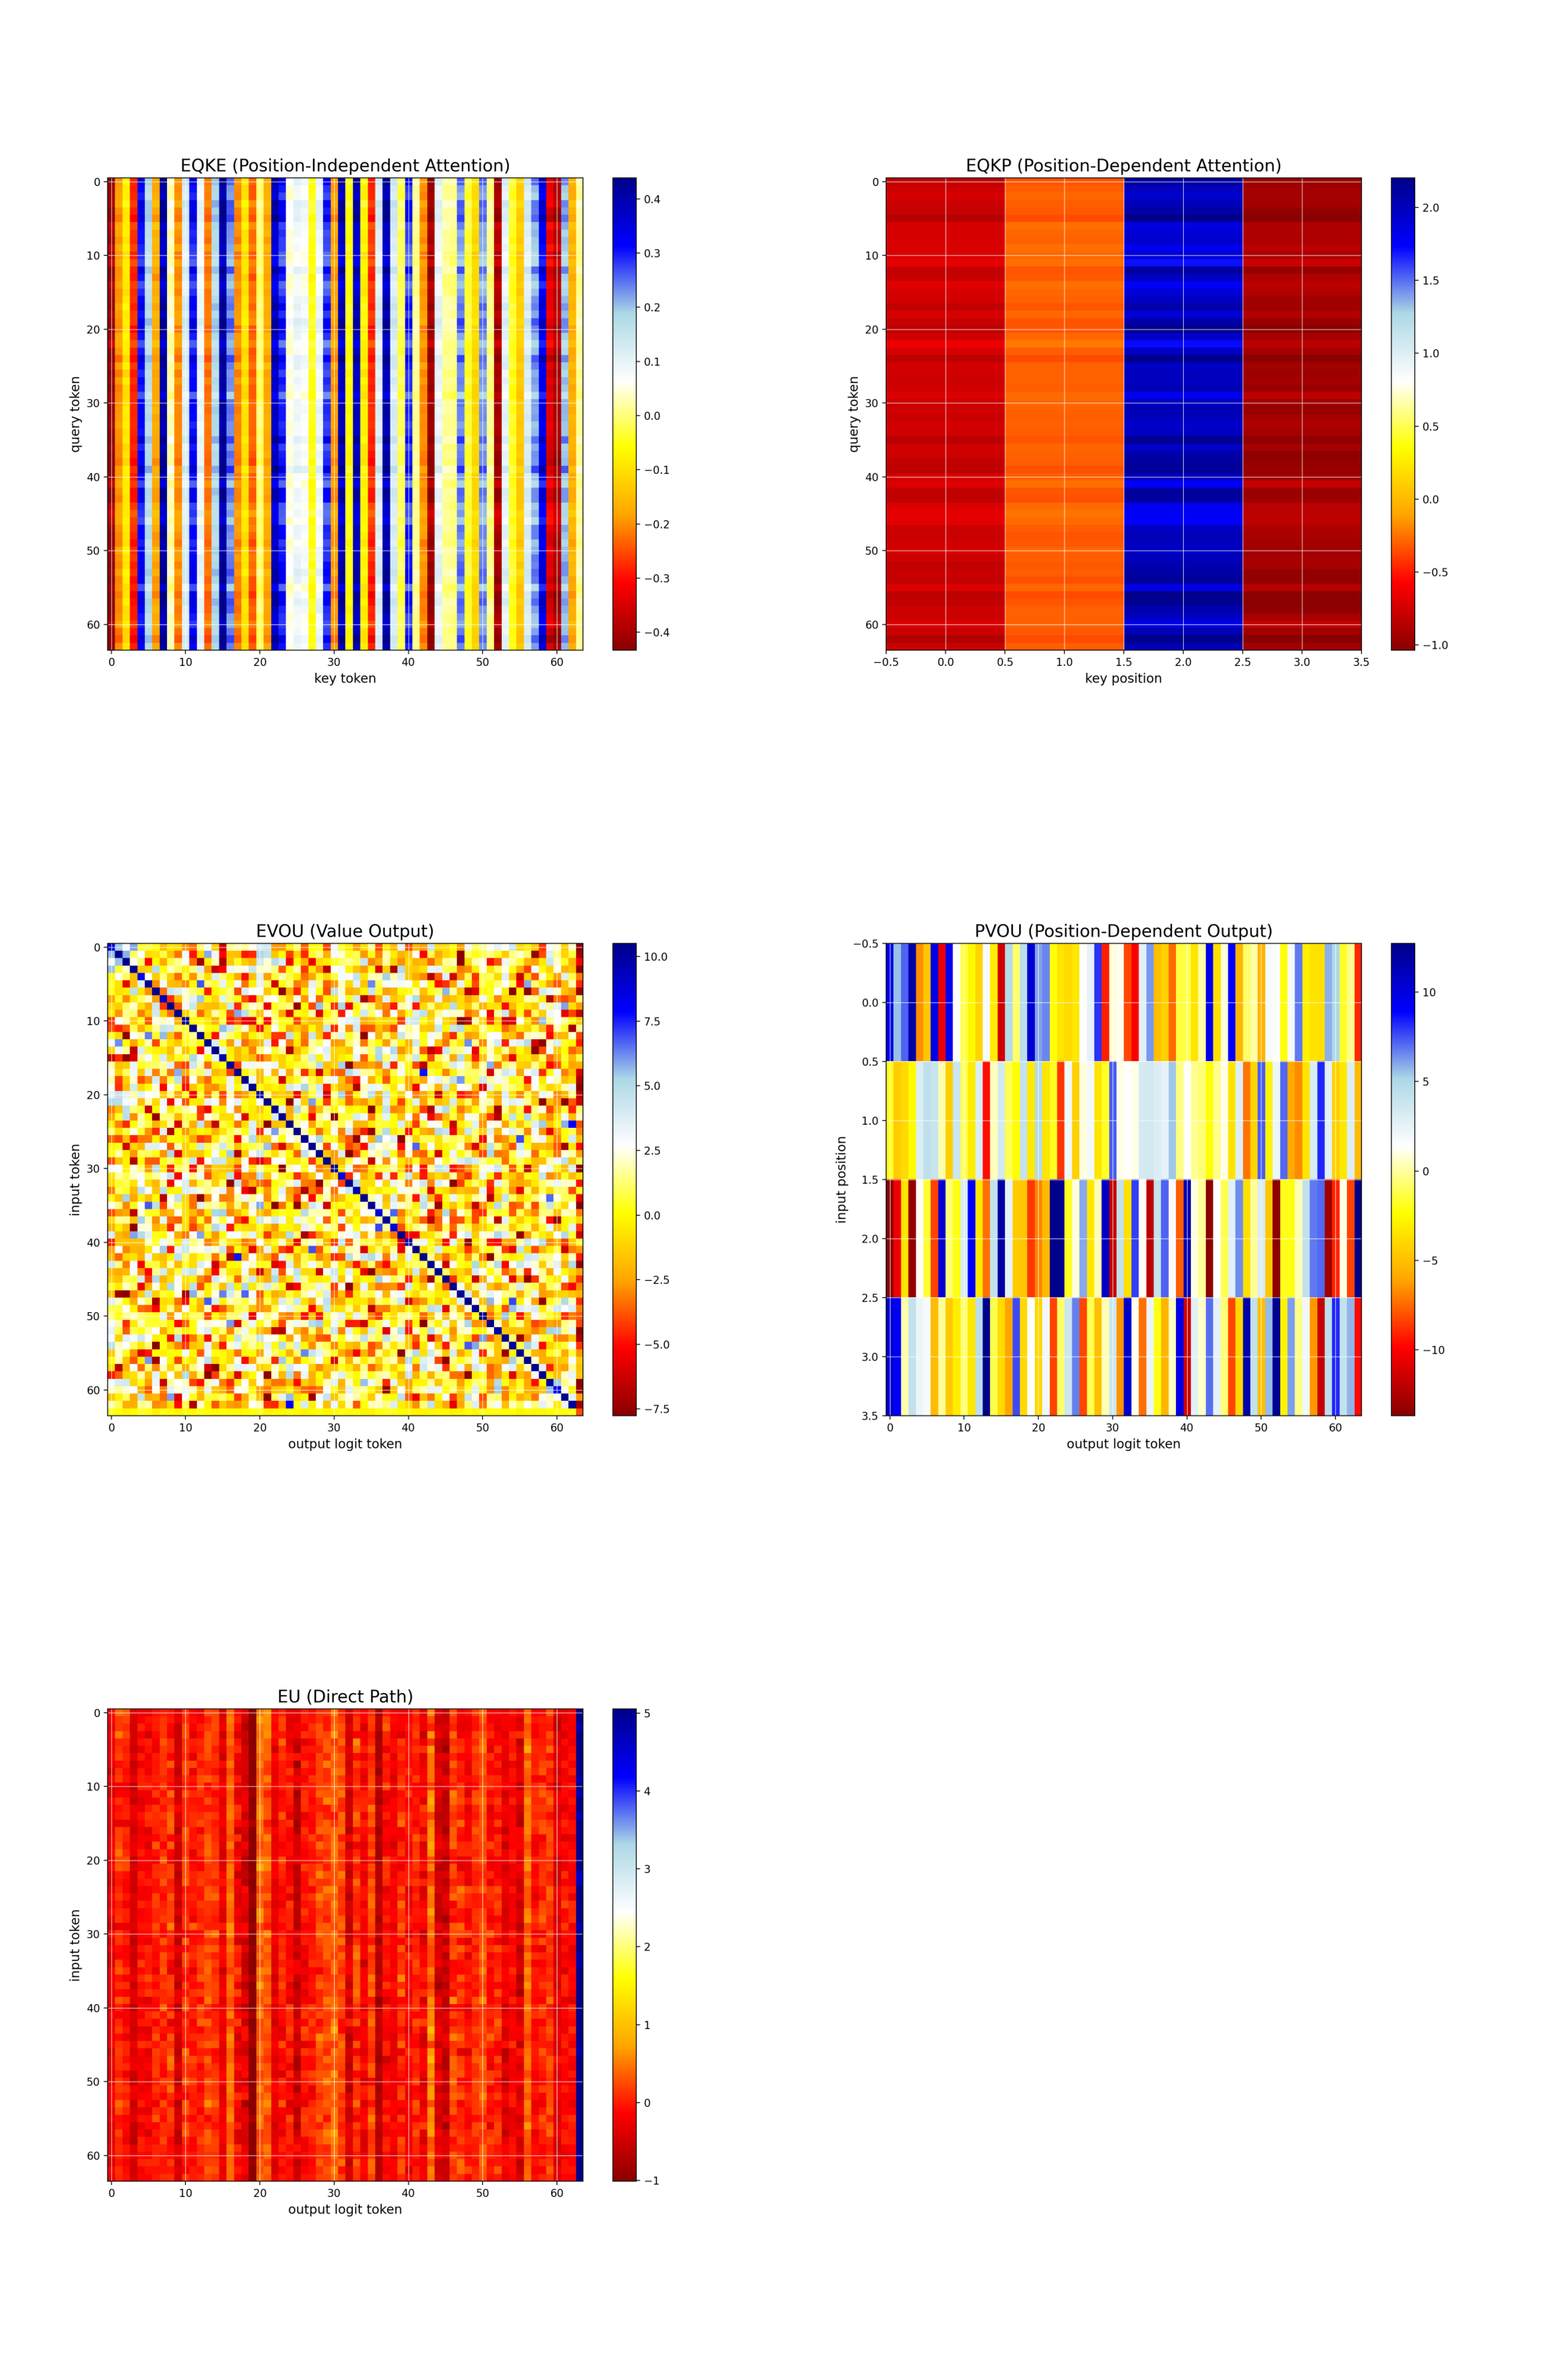
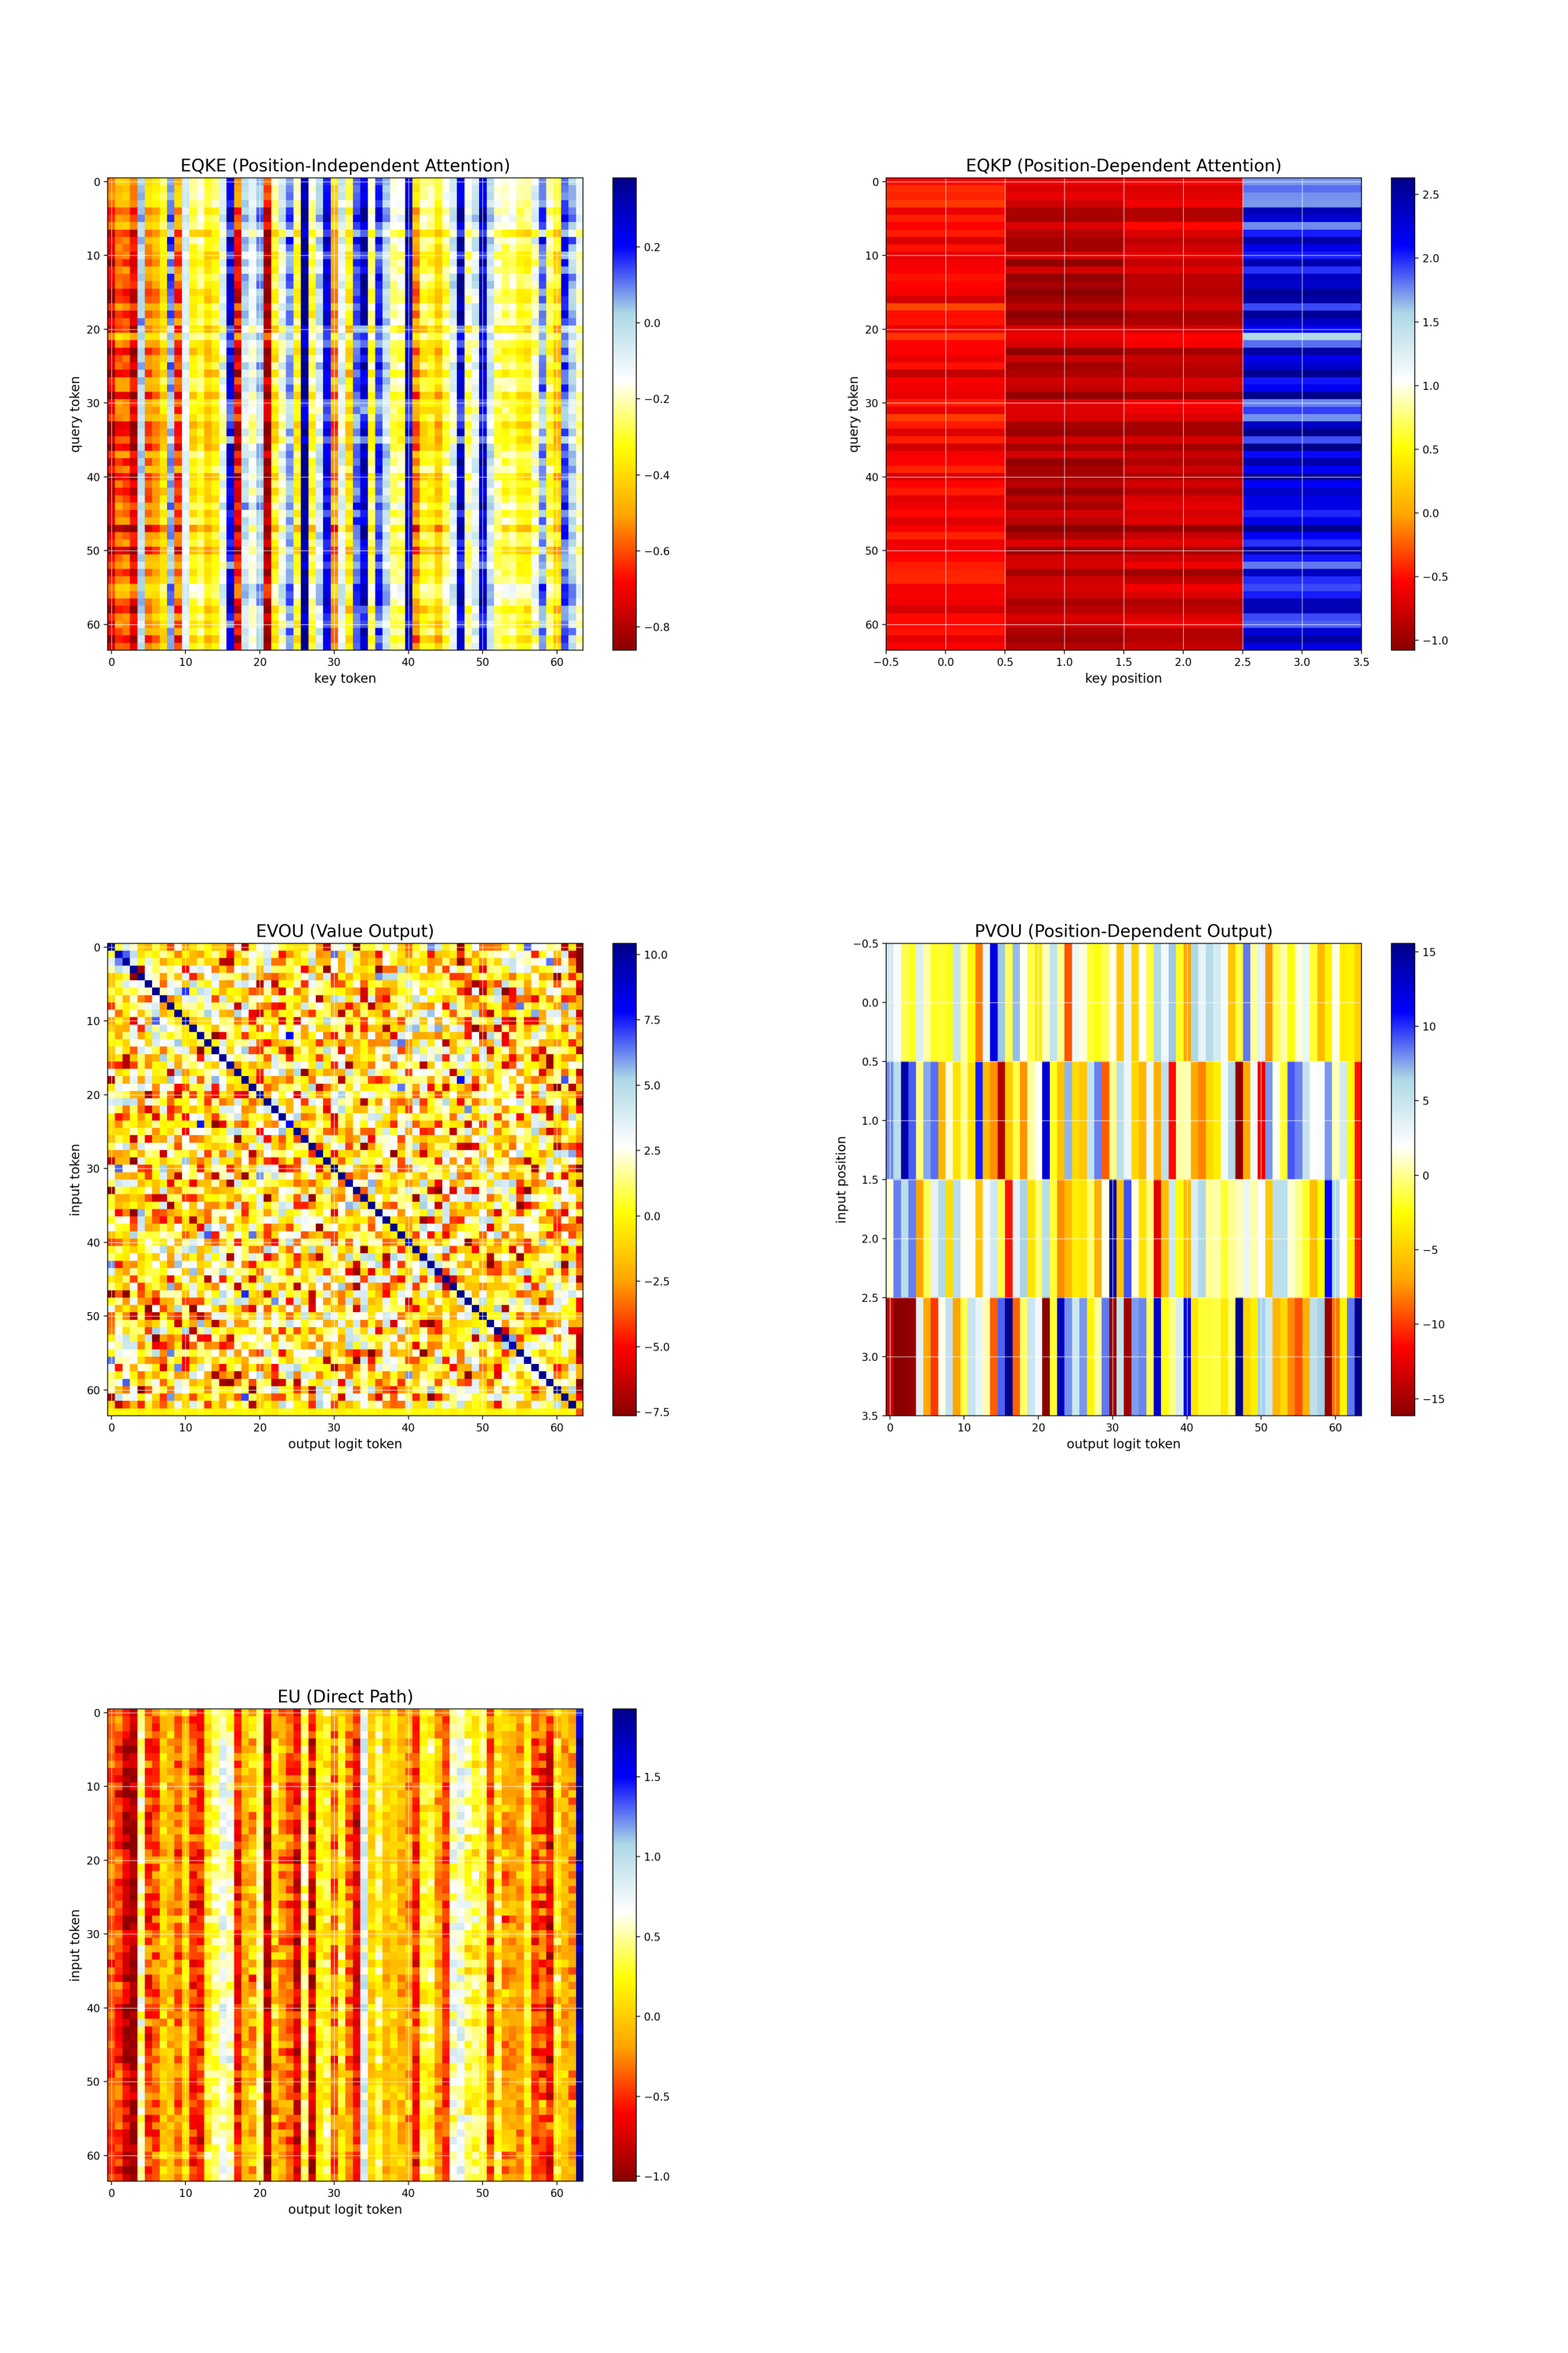
Fix query broadcast, add einsum, still broken

diff --git a/scratch.py b/scratch.py
@@ -13,7 +13,7 @@ from matplotlib.colors import LinearSegmentedColormap
 d_vocab = 64
 d = d_head = d_model = 32
 n_ctx = k = 4
-batch_size = 128 #TODO: use batch size 128
+batch_size = 128
 
 #Global seed
 global_seed = 123
@@ -54,7 +54,6 @@ class Transformer(torch.nn.Module):
         super().__init__()
         self.E = torch.nn.Parameter(torch.nn.init.xavier_uniform_(torch.empty(batch_size, d_vocab, d_model)))
         self.P = torch.nn.Parameter(torch.nn.init.xavier_uniform_(torch.empty(n_ctx, d_model)))
-        self.P_query = torch.nn.Parameter(torch.nn.init.xavier_uniform_(torch.empty(n_ctx, d_model)))
 
         self.Q = torch.nn.Parameter(torch.nn.init.xavier_uniform_(torch.empty(d_model, d_model)))
         self.K = torch.nn.Parameter(torch.nn.init.xavier_uniform_(torch.empty(d_model, d_model)))
@@ -78,48 +77,65 @@ class Transformer(torch.nn.Module):
         x_query = x[:, -1, :] # (batch_size, d_vocab)
         assert x_query.shape == (batch_size, d_vocab)
 
+        P_query = self.P[-1, :]
+
         # dim=-1 => summing across d_model dimension
-        P_avg = torch.mean(self.P, dim=0, keepdim=True)   
+        P_bar = torch.mean(self.P, dim=0, keepdim=True)  
 
-        # breakpoint()
+        assert P_bar.shape == (1, d_model) 
 
-        # Note: P_bar is broadcasted P_avg
+        # Note: P_bar is broadcasted P_bar
+
+        # P_hat = P - P_bar
+        P_hat = self.P - P_bar # (n_ctx, d_model)
+        assert P_hat.shape == (n_ctx, d_model)
 
         # E_bar = E + P_bar
-        E_bar = self.E + P_avg.expand(d_vocab, d_model)
+        E_bar = self.E + P_bar
+
         assert E_bar.shape == (batch_size, d_vocab, d_model)
 
         # E_q = E + P_q
-        # Mean across n_ctx dim, to make it position independent
-        E_q = self.E + self.P_query.mean(dim=0, keepdim=True)
+        P_q = P_query.unsqueeze(0).expand(d_vocab, d_model)
+        E_q = self.E + P_q
         assert E_q.shape == (batch_size, d_vocab, d_model)
-
 
         scaling_factor = 1 / math.sqrt(d_model)
 
-        # breakpoint()
         # Position independent
-        # self.EQKE = scaling_factor * (E_q @ self.Q @ self.K.T @ E_bar.transpose(1, 2))
-        self.EQKE = E_q @ self.Q @ self.K.T @ E_bar.transpose(1, 2)
-
+        #self.EQKE = E_q @ self.Q @ self.K.T @ E_bar.transpose(1, 2)
+        self.EQKE = einsum('batch d_vocab d_model, d_model d_model_2 -> batch d_vocab d_model_2', E_q, self.Q)
+        self.EQKE = einsum('batch d_vocab d_model_2, d_model d_model_2 -> batch d_vocab d_model', self.EQKE, self.K) # TODO: be careful with the dim order for transpose!
+        self.EQKE = einsum('batch d_vocab d_model, batch d_vocab_2 d_model -> batch d_vocab d_vocab_2', self.EQKE, E_bar)
 
         assert self.EQKE.shape == (batch_size, d_vocab, d_vocab)
 
-        # P_hat = P - P_bar
-        #P_hat = self.P - self.P_query
-        P_hat = self.P - P_avg
-        assert P_hat.shape == (n_ctx, d_model)
-
         # Position dependent
         # self.EQKP = scaling_factor * (E_q @ self.Q @ self.K.T @ P_hat.T)
-        self.EQKP = E_q @ self.Q @ self.K.T @ P_hat.T
+        # self.EQKP = E_q @ self.Q @ self.K.T @ P_hat.T
+        self.EQKP = einsum('batch d_vocab d_model, d_model d_model_2 -> batch d_vocab d_model_2', E_q, self.Q)
+        self.EQKP = einsum('batch d_vocab d_model_2, d_model d_model_2 -> batch d_vocab d_model', self.EQKP, self.K)
+        self.EQKP = einsum('batch d_vocab d_model, n_ctx d_model -> batch d_vocab n_ctx', self.EQKP, P_hat)
+
         assert self.EQKP.shape == (batch_size, d_vocab, n_ctx)   
 
-        # breakpoint()
-        QK = x_query @ (self.EQKE @ x.transpose(1, 2) + self.EQKP)
-        QK = einsum('batch d_vocab, batch d_vocab n_ctx -> batch d_vocab n_ctx', x_query, self.EQKE @ x.transpose(1, 2) + self.EQKP)
+        breakpoint()
+
+        #QK = x_query @ (self.EQKE @ x.transpose(1, 2) + self.EQKP)
+        #QK = einsum('batch d_vocab, batch d_vocab n_ctx -> batch d_vocab n_ctx', x_query, self.EQKE @ x.transpose(1, 2) + self.EQKP)
+        QK = einsum('batch d_vocab d_vocab_2, batch n_ctx d_vocab_2 -> batch d_vocab n_ctx', self.EQKE, x) + self.EQKP
         # assert QK.shape == (n_ctx, n_ctx)
-        assert QK.shape == (batch_size, d_vocab, n_ctx)
+        # assert QK.shape == (batch_size, d_vocab, n_ctx)
+        assert QK.shape == (batch_size, n_ctx)
+
+        # Apply causal attention mask
+        causal_mask = torch.tril(torch.ones(n_ctx, n_ctx))  # Creates n_ctx x n_ctx lower triangular matrix
+        # causal_mask = causal_mask.  # Add batch dim: (1, n_ctx, n_ctx)
+        # QK = QK.masked_fill(~causal_mask.bool(), float('-inf'))
+
+        #TODO: do og QK, OV for comparison
+        # out = einsum('batch d_vocab, batch d_vocab d_model ->')
+        # og_QK = (x_query@self.E + self.P_query)@self.Q@self.K.T@(x@self.E+self.P).T
 
         self.EVOU = E_bar @ self.V @ self.O @ self.U
         self.PVOU = P_hat @ self.V @ self.O @ self.U
@@ -130,15 +146,11 @@ class Transformer(torch.nn.Module):
         OV = x @ self.EVOU + self.PVOU
         assert OV.shape == (batch_size, n_ctx, d_vocab)
 
-        self.EU = (E_q @ self.U)
+        self.EU = einsum('batch d_vocab d_model, d_model d_vocab_2 -> batch d_vocab d_vocab_2', E_q, self.U)
         #TODO;l assert direct_path
         # assert self.direct_path.shape == (n_ctx, d_vocab)
-        direct_path = einsum('batch d_vocab, batch d_vocab d_vocab_2 -> batch d_vocab d_vocab_2', x_query, self.EU) # x_query @ self.EU
-        assert direct_path.shape == (batch_size, d_vocab, d_vocab)
-
-        # Apply causal attention mask
-        causal_mask = torch.tril(torch.ones(d_vocab, n_ctx)) # should i do batch_size, d_vocab, n_ctx
-        QK = QK.masked_fill(causal_mask == 0, float('-inf'))
+        direct_path = einsum('batch d_vocab, batch d_vocab d_vocab_2 -> batch d_vocab_2', x_query, self.EU)
+        assert direct_path.shape == (batch_size, d_vocab)
 
         #TODO dim=0, -1 are both n_ctx which do i sum over 
         M = torch.softmax(QK/scaling_factor, dim=-1) @ OV + direct_path
@@ -192,7 +204,7 @@ if __name__ == "__main__":
     print("Training completed.")
     
     # Appendix G.2.3: SVD
-    breakpoint()
+    # breakpoint()
     # U, S, V = torch.svd(model.EQKE)
     # print("EQKE")
     # print(f"Ratio of rank 1 and 2 singular values: {torch.diag(S)[0]/torch.diag(S)[1]}")

diff --git a/README.md b/README.md
@@ -1,5 +1,6 @@
 - [x] Write circuit decompositions
 - [x] Make heatmaps
+- [ ] Figure out where to mask
 - [ ] SVD decomposition (section 3.1)
 - [ ] Bug: EQKE is 0.1x expected
 - [ ] Bug: EQKP is 10x expected
